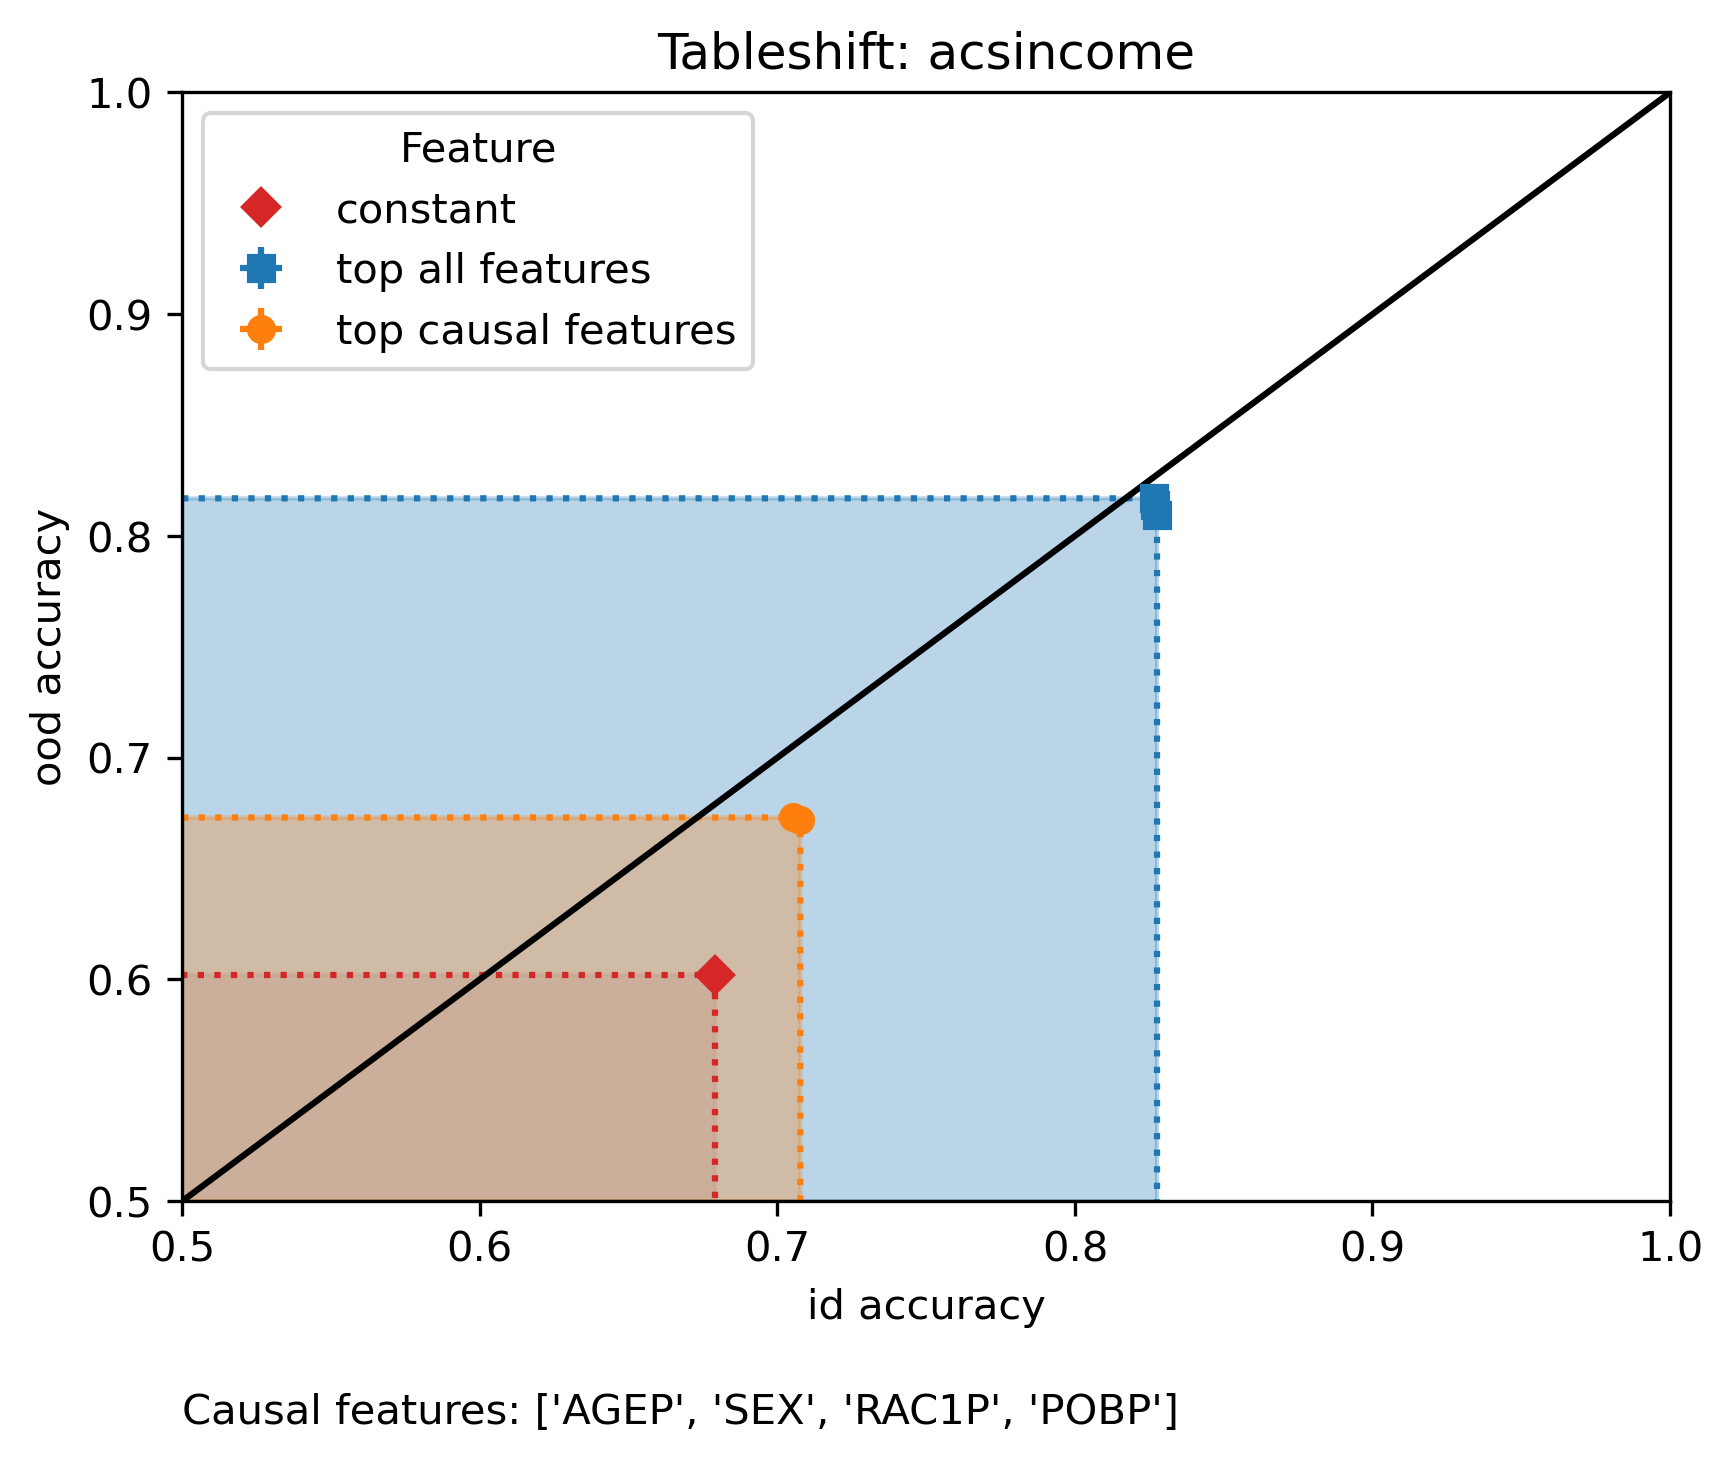
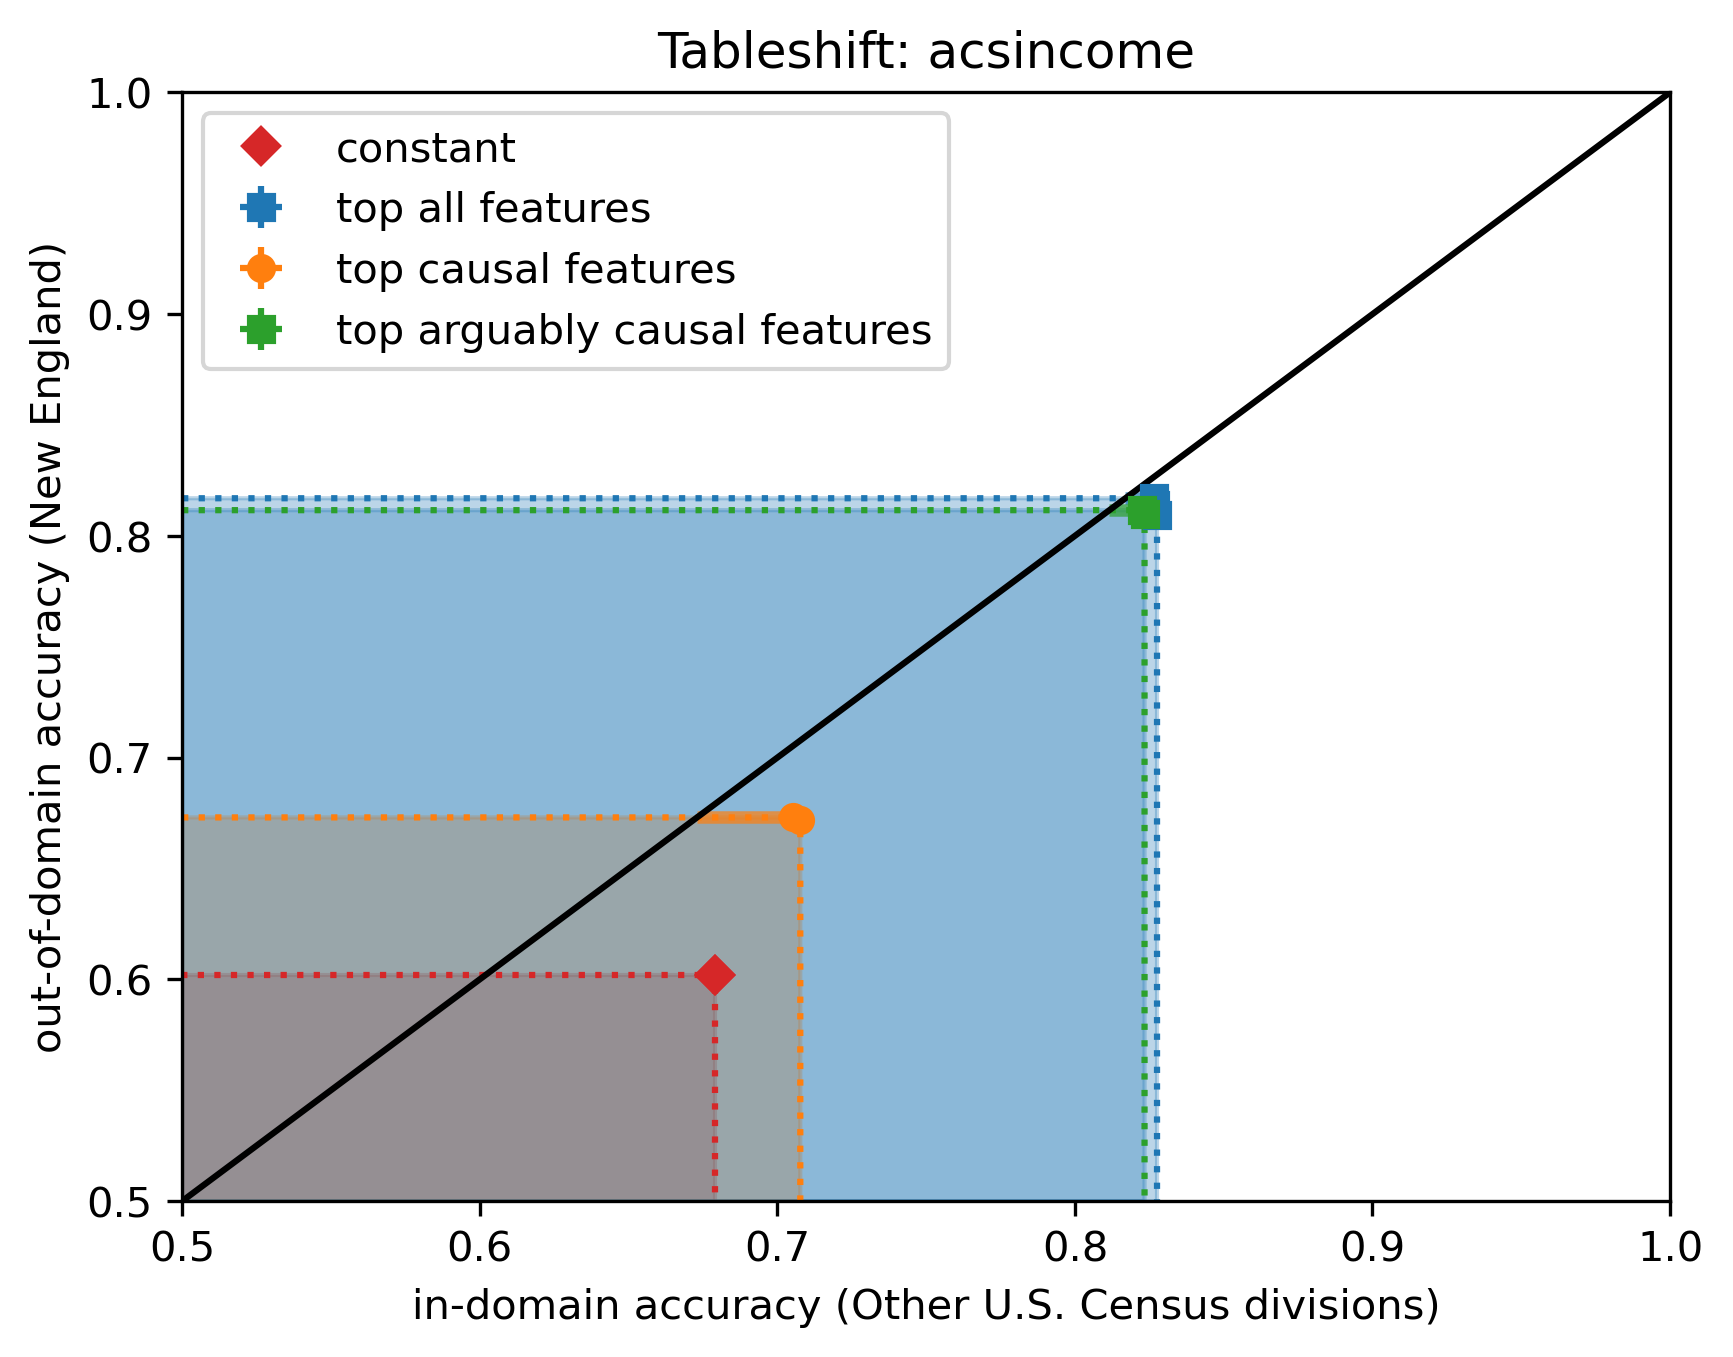
income: arguably causal features

diff --git a/tableshift/datasets/acs.py b/tableshift/datasets/acs.py
@@ -632,7 +632,52 @@ ACS_FOODSTAMPS_FEATURES_CAUSAL = FeatureList(features=[
                   "/pums/data_dict/PUMS_Data_Dictionary_2019.pdf"
 )
 
+# ACS_INCOME_FEATURES_CAUSAL = FeatureList([
+#     Feature('PINCP', float, """Total person's income >= threshold.""",
+#             is_target=True),
+#     Feature('DIVISION', cat_dtype,
+#             "Division code based on 2010 Census definitions.",
+#             name_extended='geographic region',
+#             value_mapping={
+#                 0: 'Puerto Rico',
+#                 1: 'New England (Northeast region)',
+#                 2: 'Middle Atlantic (Northeast region)',
+#                 3: 'East North Central (Midwest region)',
+#                 4: 'West North Central (Midwest region)',
+#                 5: 'South Atlantic (South region)',
+#                 6: 'East South Central (South region)',
+#                 7: 'West South Central (South Region)',
+#                 8: 'Mountain (West region)',
+#                 9: 'Pacific (West region)',
+#             }),
+#     ## Causal features
+#     Feature('AGEP', int, "Age", name_extended='age in years'),
+#     Feature('SEX', int, "Sex",
+#             name_extended='sex',
+#             value_mapping={
+#                 1: "Male", 2: "Female",
+#             }),
+#     Feature('RAC1P', int, """Recoded detailed race code""",
+#             name_extended='race',
+#             value_mapping={
+#                 1: 'White alone',
+#                 2: 'Black or African American alone',
+#                 3: 'American Indian alone',
+#                 4: 'Alaska Native alone',
+#                 5: 'American Indian and Alaska Native tribes specified; or'
+#                    ' American Indian or Alaska Native, not specified and '
+#                    'no other races',
+#                 6: 'Asian alone',
+#                 7: 'Native Hawaiian and Other Pacific Islander alone',
+#                 8: 'Some Other Race alone',
+#                 9: 'Two or More Races'}),
+#     POBP_FEATURE,
+# ],
+#     documentation="https://www2.census.gov/programs-surveys/acs/tech_docs/pums/data_dict/PUMS_Data_Dictionary_2014-2018.pdf")
+
 ACS_INCOME_FEATURES_CAUSAL = FeatureList([
+    Feature('PINCP', float, """Total person's income >= threshold.""",
+            is_target=True),
     Feature('DIVISION', cat_dtype,
             "Division code based on 2010 Census definitions.",
             name_extended='geographic region',
@@ -648,6 +693,7 @@ ACS_INCOME_FEATURES_CAUSAL = FeatureList([
                 8: 'Mountain (West region)',
                 9: 'Pacific (West region)',
             }),
+    ## Causal features
     Feature('AGEP', int, "Age", name_extended='age in years'),
     Feature('SEX', int, "Sex",
             name_extended='sex',
@@ -669,11 +715,80 @@ ACS_INCOME_FEATURES_CAUSAL = FeatureList([
                 8: 'Some Other Race alone',
                 9: 'Two or More Races'}),
     POBP_FEATURE,
-    Feature('PINCP', float, """Total person's income >= threshold.""",
-            is_target=True),
+    ## Arguably causal features
+    Feature('ST', cat_dtype, "State Code based on 2010 Census definitions.",
+            name_extended="State"),
+    Feature('MAR', cat_dtype, "Marital status",
+            name_extended='marital status',
+            value_mapping={
+                1: 'Married',
+                2: 'Widowed',
+                3: 'Divorced',
+                4: 'Separated',
+                5: 'Never married or under 15 years old'
+            }),
+    Feature('CIT', cat_dtype, """Citizenship status""",
+            name_extended='citizenship status',
+            value_mapping={
+                1: 'Born in the U.S.',
+                2: 'Born in Puerto Rico, Guam, the U.S. Virgin Islands, '
+                   'or the Northern Marianas',
+                3: 'Born abroad of American parent(s)',
+                4: 'U.S. citizen by naturalization',
+                5: 'Not a citizen of the U.S.',
+            }),
+    Feature('SCHL', cat_dtype, "Educational attainment",
+            name_extended="Educational attainment",
+            value_mapping={
+                np.nan: 'NA (less than 3 years old)',
+                1: 'No schooling completed',
+                2: 'Nursery school, preschool',
+                3: 'Kindergarten',
+                4: 'Grade 1',
+                5: 'Grade 2',
+                6: 'Grade 3',
+                7: 'Grade 4',
+                8: 'Grade 5',
+                9: 'Grade 6',
+                10: 'Grade 7',
+                11: 'Grade 8',
+                12: 'Grade 9',
+                13: 'Grade 10',
+                14: 'Grade 11',
+                15: '12th grade - no diploma',
+                16: 'Regular high school diploma',
+                17: 'GED or alternative credential',
+                18: 'Some college, but less than 1 year',
+                19: '1 or more years of college credit, no degree',
+                20: "Associate's degree",
+                21: "Bachelor's degree",
+                22: "Master's degree",
+                23: "Professional degree beyond a bachelor's degree",
+                24: 'Doctorate degree',
+            }),
+    Feature('COW', cat_dtype, """Class of worker.""",
+            name_extended='class of worker',
+            value_mapping={
+                '01': "Employee of a private for-profit company or business, "
+                      "or of an individual, for wages, salary, or commissions",
+                '02': "Employee of a private not-for-profit, tax-exempt, or charitable organization",
+                '03': "Local government employee (city, county, etc.)",
+                '04': "State government employee",
+                '05': "Federal government employee",
+                '06': "Self-employed in own not incorporated business, professional practice, or farm",
+                '07': "Self-employed in own incorporated business, professional practice or farm",
+                '08': "Working without pay in family business or farm"}),
+    OCCP_FEATURE,
+    WKHP_FEATURE,
+    Feature('WKW', int, "Weeks worked during past 12 months.",
+            name_extended="Weeks worked during past 12 months"),
+    Feature('WRK', cat_dtype, "Worked last week",
+            name_extended="Worked last week",
+            value_mapping={'00': 'NA (not reported)',
+                           '01': 'Worked',
+                           '02': 'Did not work'}),
 ],
     documentation="https://www2.census.gov/programs-surveys/acs/tech_docs/pums/data_dict/PUMS_Data_Dictionary_2014-2018.pdf")
-
 
 ################################################################################
 # Preprocessing functions
